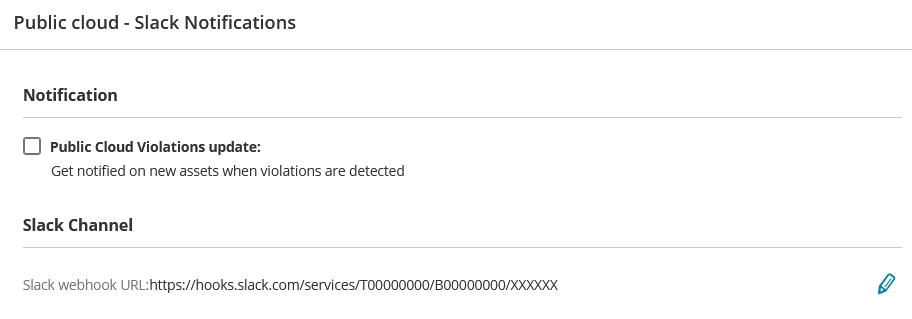
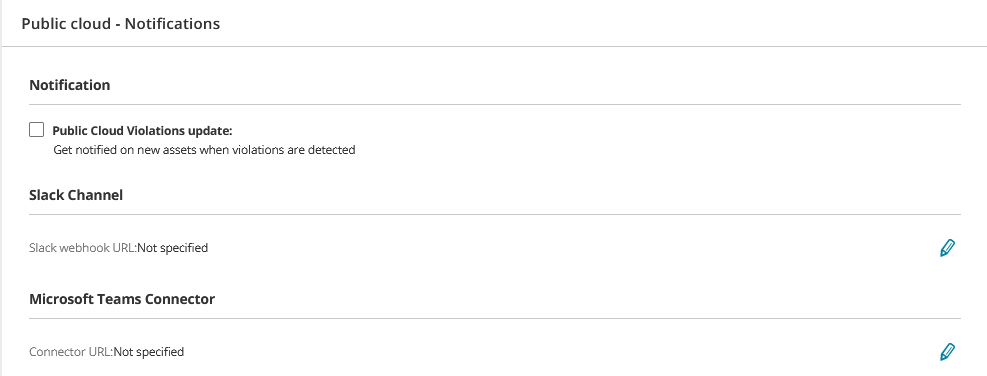
feature / PO / whats new 31/03

diff --git a/Content/SecureCloud/WhatsNew.htm b/Content/SecureCloud/WhatsNew.htm
@@ -5,6 +5,44 @@
     </head>
     <body>
         <h1>What's New in <MadCap:variable name="local-iris.ProductName" /></h1>
+        <p class="SubHead1">30th March 2021</p>
+        <table style="width: 100%;mc-table-style: url('../Resources/TableStyles/PatternedRows.css');" class="TableStyle-PatternedRows" cellspacing="0">
+            <col class="TableStyle-PatternedRows-Column-Regular" style="width: 237px;" MadCap:conditions="" />
+            <col class="TableStyle-PatternedRows-Column-Regular" MadCap:conditions="" style="width: 397px;" />
+            <col class="TableStyle-PatternedRows-Column-Regular" MadCap:conditions="" />
+            <thead>
+                <tr class="TableStyle-PatternedRows-Head-Header1">
+                    <th class="TableStyle-PatternedRows-HeadE-Regular-Header1" style="font-weight: normal;">
+                        <p class="TableHeading">Title</p>
+                    </th>
+                    <th class="TableStyle-PatternedRows-HeadE-Regular-Header1">
+                        <p class="TableHeading">Where?</p>
+                    </th>
+                    <th class="TableStyle-PatternedRows-HeadD-Regular-Header1" style="font-weight: normal;">
+                        <p class="TableHeading">Details</p>
+                    </th>
+                </tr>
+            </thead>
+            <tbody>
+                <tr class="TableStyle-PatternedRows-Body-LightRows">
+                    <td class="TableStyle-PatternedRows-BodyE-Regular-LightRows">Shared VPC Support</td>
+                    <td class="TableStyle-PatternedRows-BodyE-Regular-LightRows"><a href="../PublicCloud/AccountManager.htm#addgoogle">Add a <MadCap:variable name="local.GoogleCloudPlatform" /> Account to <MadCap:variable name="local.ProductName" /></a>
+                    </td>
+                    <td class="TableStyle-PatternedRows-BodyD-Regular-LightRows">Google Cloud shared VPCs (service project attached to a host project) now supported. The host project must be added to Accounts.</td>
+                </tr>
+                <tr class="TableStyle-PatternedRows-Body-DarkRows">
+                    <td class="TableStyle-PatternedRows-BodyE-Regular-DarkRows">Notifications to Microsoft Teams</td>
+                    <td class="TableStyle-PatternedRows-BodyE-Regular-DarkRows"><a href="../Kubernetes/OrcaSettingsNotifications.htm">Notifications and Alerts</a> and <a href="Reports.htm">Reports</a></td>
+                    <td class="TableStyle-PatternedRows-BodyD-Regular-DarkRows">Notifications can now be sent to Microsoft Teams</td>
+                </tr>
+                <tr class="TableStyle-PatternedRows-Body-LightRows">
+                    <td class="TableStyle-PatternedRows-BodyB-Regular-LightRows">Update Product Key Option</td>
+                    <td class="TableStyle-PatternedRows-BodyB-Regular-LightRows"><a href="MyAccount.htm"><MadCap:variable name="local.ProductName" /> <MadCap:variable name="local.SecurecloudAccount" /></a>
+                    </td>
+                    <td class="TableStyle-PatternedRows-BodyA-Regular-LightRows">The installed product key can now be replaced with a different key to change current usage conditions</td>
+                </tr>
+            </tbody>
+        </table>
         <p class="SubHead1">21st March 2021</p>
         <table style="width: 100%;mc-table-style: url('../Resources/TableStyles/PatternedRows.css');" class="TableStyle-PatternedRows" cellspacing="0">
             <col class="TableStyle-PatternedRows-Column-Regular" style="width: 237px;" MadCap:conditions="" />

diff --git a/Content/Kubernetes/OrcaSettingsNotifications.htm b/Content/Kubernetes/OrcaSettingsNotifications.htm
@@ -7,7 +7,7 @@
             <MadCap:concept term="Settings" />Notifications and Alerts</h1>
         <MadCap:snippetBlock src="../Resources/TopicTemplates/Collateral/UL_Contents.flsnp" />
         <MadCap:snippetBlock src="../Resources/TopicTemplates/Collateral/H2_Overview.flsnp" />
-        <p> Get notifications via Slack when <a href="NewConnections.htm">new connections</a> are discovered, with no more than one message an hour.</p>
+        <p> Get notifications via a social network when <a href="NewConnections.htm">new connections</a> are discovered. A maximum of one message will be sent every hour.</p>
         <p>
             <img src="../Kubernetes-Images/Screen_Notifications.png" class="ThumbnailPopup" />
         </p>
@@ -18,11 +18,12 @@
         <p class="h3"><a name="Slack"></a>Configure a New Connection Alert</p>
         <ol>
             <li>
-                <p> Enable / disable the alert on or off using the toggle switch.</p>
+                <p> Enable / disable the alert on or off using the toggle switch. <MadCap:variable name="local-orca.Product_S" /> remembers the URLs you have entered below, even when disabled.</p>
             </li>
             <li>
-                <p>When the alert is enabled, enter the Slack URL of an individual or group to receive notifications - see <a href="https://api.slack.com/incoming-webhooks">Slack documentation</a>. <MadCap:variable name="local-orca.Product_S" /> remembers the URL when disabled.</p>
+                <p>If you want to notify via Slack, when the alert is enabled, enter the Slack URL of an individual or group to receive notifications - see <a href="https://api.slack.com/incoming-webhooks">Slack documentation</a>.</p>
             </li>
+            <li>If you want to notify via Microsoft Teams, enter the connector URL of an individual or team to receive notifications - see <a href="https://docs.microsoft.com/en-us/microsoftteams/platform/webhooks-and-connectors/how-to/add-incoming-webhook">Microsoft documentation</a>. </li>
         </ol>
         <p>
             <MadCap:snippetBlock src="../Resources/TopicTemplates/Collateral/H2_GetHere.flsnp" />

diff --git a/Content/SecureCloud/Reports.htm b/Content/SecureCloud/Reports.htm
@@ -62,14 +62,11 @@
         <p>
             <img src="../SecureCloud-Images/Screen_Reports_Slack.png" class="ThumbnailPopup" />
         </p>
-        <p>You can receive a notification via Slack every time a <MadCap:variable name="local.public cloud" /> policy violation is detected. </p>
+        <p>You can receive a notification to a social network every time a <MadCap:variable name="local.public cloud" /> policy violation is detected. </p>
         <ol>
-            <li>
-                <p> Enable / disable notifications using the checkbox.</p>
-            </li>
-            <li>
-                <p>When enabled, enter the Slack URL of an individual or group to receive notifications - see <a href="https://api.slack.com/incoming-webhooks">Slack documentation</a>. <MadCap:variable name="local-orca.Product_S" /> remembers the URL when disabled.</p>
-            </li>
+            <li> Enable / disable notifications using the checkbox. <MadCap:variable name="local-orca.Product_S" /> remembers the URLs you have entered below, even when disabled.</li>
+            <li>If you want to notify via Slack, enter the Slack webhook URL of an individual or group to receive notifications - see <a href="https://api.slack.com/incoming-webhooks">Slack documentation</a>. </li>
+            <li>If you want to notify via Microsoft Teams, enter the connector URL of an individual or team to receive notifications - see <a href="https://docs.microsoft.com/en-us/microsoftteams/platform/webhooks-and-connectors/how-to/add-incoming-webhook">Microsoft documentation</a>. </li>
         </ol>
         <p>
             <MadCap:snippetBlock src="../Resources/TopicTemplates/Collateral/H2_GetHere.flsnp" />

diff --git a/Content/SecureCloud/ActiveDirectory.htm b/Content/SecureCloud/ActiveDirectory.htm
@@ -35,10 +35,10 @@
                 <p>Make sure that the <MadCap:variable name="local.ProductName" /> app registration has the API permission 'User.Read'. This might be added automatically when creating the app registration, but if not, add it manually.</p>
             </li>
             <li>
-                <p>Create one or more groups to access <MadCap:variable name="local.ProductName" />. For each group, add a token configuration groups claim, specifying type <b>security groups</b>. You will need the object ID(s) of the group(s) when configuring <MadCap:variable name="local.ProductName" /></p>
+                <p>Add a token configuration groups claim to the <MadCap:variable name="local.ProductName" /> app registration, specifying type <b>security groups</b>. </p>
             </li>
-            <li>Assign the appropriate users to the group(s).</li>
         </ol>
+        <p>For each group you want to give access to <MadCap:variable name="local.ProductName" />, you will need the group's object ID when configuring <MadCap:variable name="local.ProductName" /></p>
         <MadCap:snippetBlock src="../Resources/TopicTemplates/Collateral/H2_Actions.flsnp" />
         <ul class="Action">
             <li>

diff --git a/Content/PublicCloud/AccountManager.htm b/Content/PublicCloud/AccountManager.htm
@@ -130,7 +130,8 @@ Example: arn:aws:iam::006755140343:role/AssumRoleAdmin.</li>
             <li>Click <span class="ScreenObject">Add</span> to save.</li>
         </ol>
         <p class="h3"><a name="addgoogle"></a>Add a <MadCap:variable name="local.GoogleCloudPlatform" /> Account to <MadCap:variable name="local.ProductName" /></p>
-        <p>The required project must already exist on the cloud environment and have the required <a href="GCPPermissions.htm">permissions</a>. </p>
+        <p>If your project is a shared VPC, i.e. a service project attached to a host project, you must repeat the steps below for both the service and host projects. Otherwise, <MadCap:variable name="local.ProductName" /> will not have access to all the information in the VPC.</p>
+        <p>The required project must already exist on the cloud environment and have the required <a href="GCPPermissions.htm">permissions</a>. In the case of a shared VPC, this applies to  both the service and host projects. </p>
         <ol>
             <li>
                 <p>Make sure <span class="MenuItem"><MadCap:variable name="local.CloudAccounts" /></span> is selected in the menu.</p>

diff --git a/Content/SecureCloud/MyAccount.htm b/Content/SecureCloud/MyAccount.htm
@@ -16,7 +16,8 @@
         <p>The <MadCap:variable name="local.MyAccount" /> option list your account name, primary user and status. If the account is a trial account, the time remaining will be displayed as well.</p>
         <MadCap:snippetBlock src="../Resources/TopicTemplates/Collateral/H2_Actions.flsnp" />
         <ul class="Action">
-            <li>For trial accounts, you can enter a valid product key to fully activate the account</li>
+            <li>For trial accounts, you can enter a product key to fully activate the account</li>
+            <li>For fully activated accounts that require a change in conditions, for example to extend the period of use, you can enter a new key</li>
         </ul>
         <MadCap:snippetBlock src="../Resources/TopicTemplates/Collateral/H2_GetHere.flsnp" />
         <MadCap:snippetBlock src="../Resources/Snippets/GetHere_MyAccount.flsnp" />
